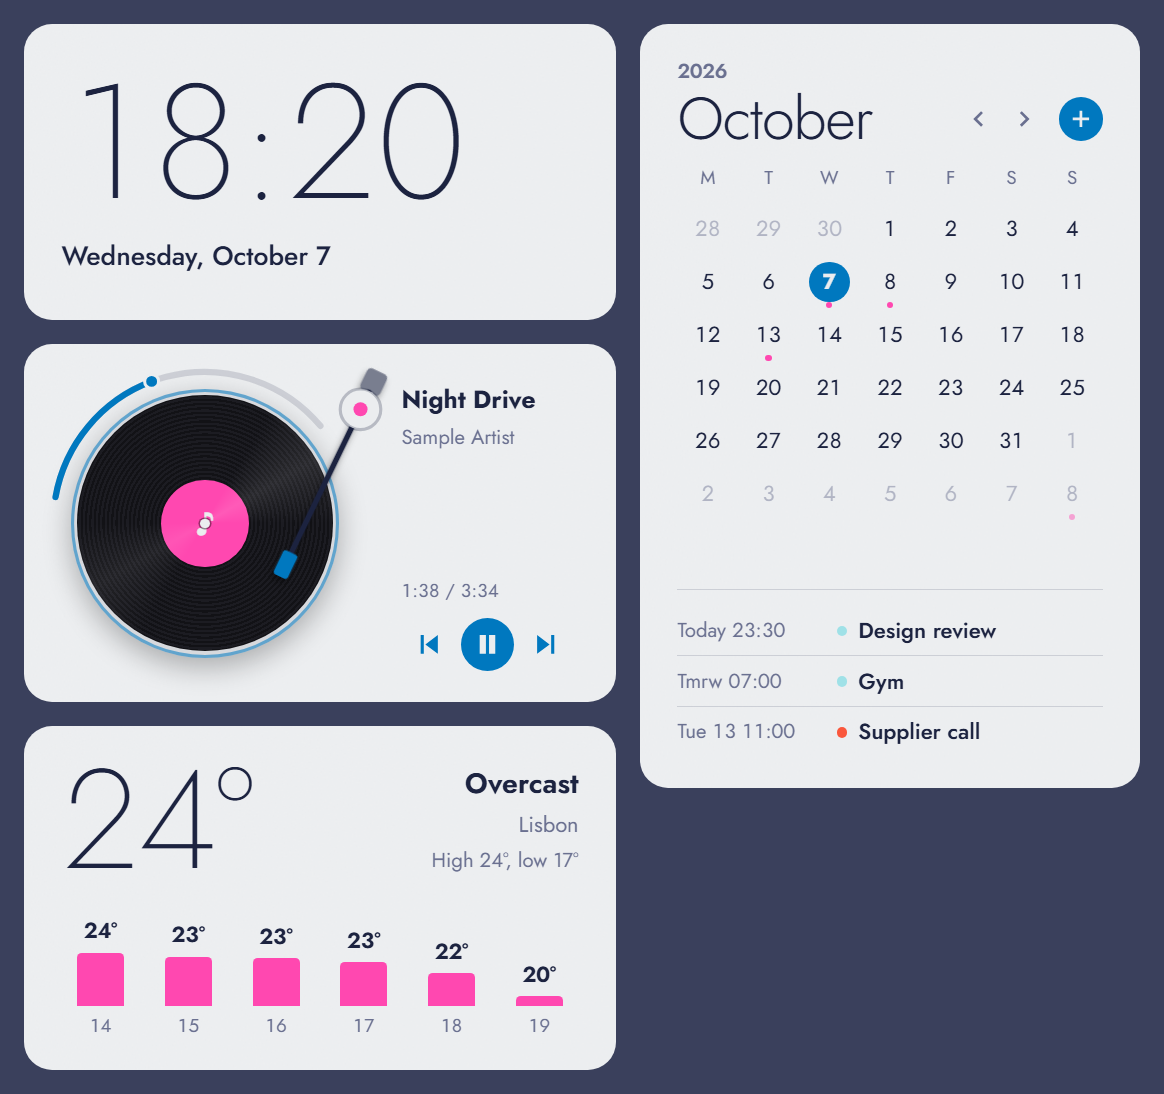
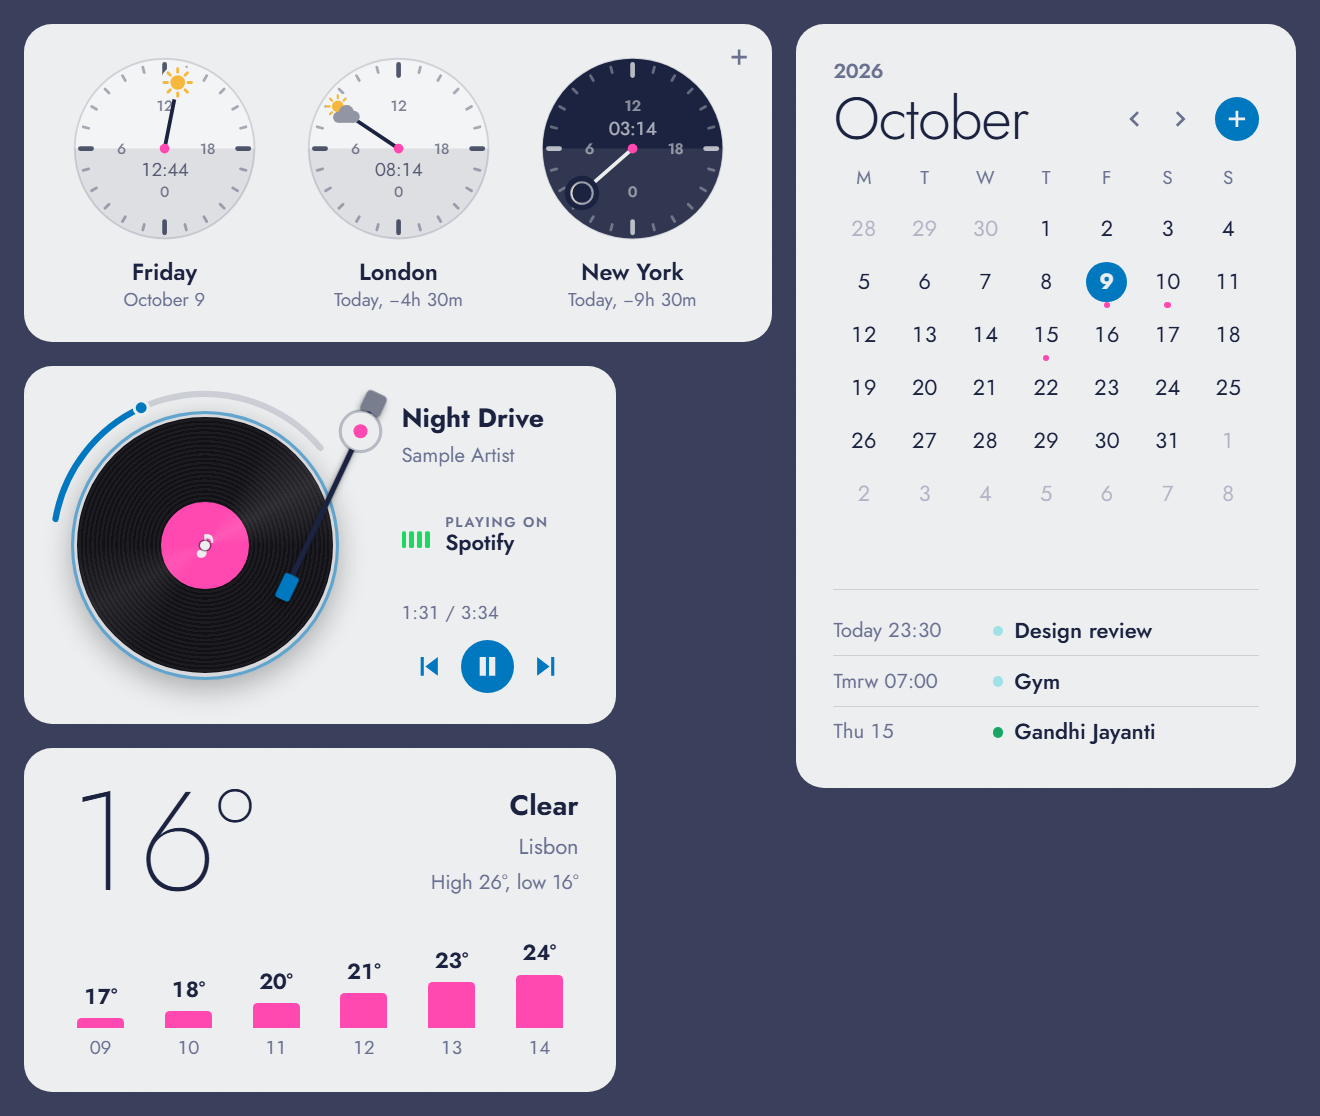
README preview: world clock and now-playing source

diff --git a/PROJECT_NOTES.md b/PROJECT_NOTES.md
@@ -335,7 +335,7 @@ cargo fmt              # (inside src-tauri) format Rust code
 - **Rust changes:** rebuild automatically in dev mode.
 - **Dev tools:** right-click a widget → **Inspect** (dev mode only).
 - **Design in a normal browser:** serve `src/` with any static server and open `index.html?w=clock` (or `nowplaying`, `weather`, `calendar`). `api.js` fills in sample data. Add `&wp=image.jpg` to test the wallpaper theme with any image, and `&zones=Asia/Tokyo,Europe/London` to preview extra clocks.
-- **README screenshot (`preview.png`):** the four browser previews side by side in iframes at their real window sizes, on `#3a405c`, captured with headless Chrome at 2× (`--force-device-scale-factor=2`). Uses sample data, so no real events end up in it. Add `--force-prefers-reduced-motion` so the tonearm is already on the record when the shot is taken, and set a weather city in `localStorage` first.
+- **README screenshot (`preview.png`):** the four browser previews side by side in iframes at their real window sizes, on `#3a405c`, captured with headless Chrome at 2× (`--force-device-scale-factor=2`). Uses sample data, so no real events end up in it. Add `--force-prefers-reduced-motion` so the tonearm is already on the record when the shot is taken, and set a weather city in `localStorage` first. The clock shows three dials with `&zones=Europe/London,America/New_York&sky=clear,partly,clear` at 374×159 (its 3-clock size), with the calendar to its right; the whole shot is 660×558.
 
 **Prerequisites on a new PC:** Visual Studio Build Tools with **Desktop development with C++**, Rust (`rustup`), and Node.js LTS.
 
